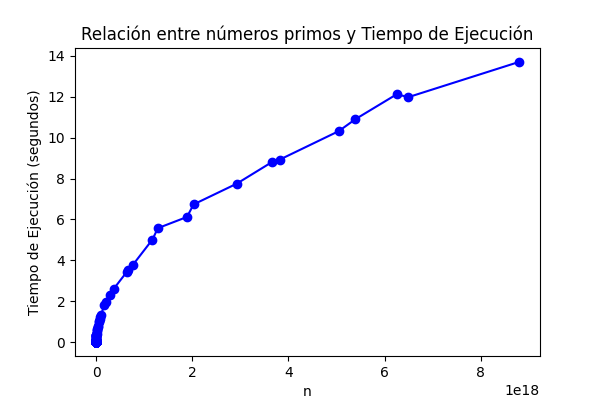
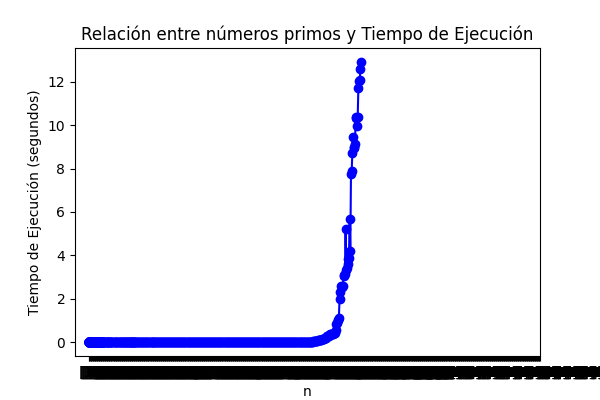
primes graph fixed

diff --git a/src/test.py b/src/test.py
@@ -3,6 +3,7 @@ import random
 from typing import Callable
 
 import matplotlib.pyplot as plt
+import numpy as np
 import pandas as pd
 
 import gcdlib
@@ -119,8 +120,7 @@ def plot_performance(numeros, tiempos, filename: str, title: str, xlabel: str, y
     plt.xlabel(xlabel)
     plt.ylabel(ylabel)
 
-    plt.xticks(range(int(min(numeros)), int(max(numeros))+1))
-    plt.yticks(range(int(min(tiempos)), int(max(tiempos))+1))
+    plt.xticks(range(len(numeros)), [str(n) for n in numeros])
 
     # Mostrar el gráfico
     plt.savefig(f'{IMAGES_OUTPUT_FOLDER}/{filename}.png')
@@ -141,31 +141,31 @@ if __name__ == "__main__":
     # funct_df.to_csv(f'{CSV_OUTPUT_FOLDER}/output_primes_fucnt_test.csv')
 
 
-    # results_df = pd.read_csv(f'{CSV_OUTPUT_FOLDER}/output_primes.csv')
+    results_df = pd.read_csv(f'{CSV_OUTPUT_FOLDER}/output_primes.csv')
 
-    # avg = results_df.groupby('order')['time'].mean()  # average per order
+    avg = results_df.groupby('order')['time'].mean()  # average per order
 
-    # plot_performance(
-    #     avg.index,
-    #     avg.values,
-    #     filename='scatter_plot_primes',
-    #     title='Relación entre Longitud del Número y Tiempo de Ejecución',
-    #     xlabel='Longitud del Número',
-    #     ylabel='Tiempo de Ejecución (segundos)'
-    # )
+    plot_performance(
+        avg.index,
+        avg.values,
+        filename='scatter_plot_primes',
+        title='Relación entre Longitud del Número y Tiempo de Ejecución',
+        xlabel='Longitud del Número',
+        ylabel='Tiempo de Ejecución (segundos)'
+    )
 
-    # primes = results_df.loc[results_df['result'] == True]  # only true values
-    # plot_performance(
-    #     primes['n'],
-    #     primes['time'],
-    #     filename='scatter_plot_primes_only_primes',
-    #     title='Relación entre números primos y Tiempo de Ejecución',
-    #     xlabel='n',
-    #     ylabel='Tiempo de Ejecución (segundos)'
-    # )
+    primes = results_df.loc[results_df['result'] == True]  # only true values
+    plot_performance(
+        primes['n'],
+        primes['time'],
+        filename='scatter_plot_primes_only_primes',
+        title='Relación entre números primos y Tiempo de Ejecución',
+        xlabel='n',
+        ylabel='Tiempo de Ejecución (segundos)'
+    )
 
 
-    # GCD
+    #GCD
 
     
     results_df = perf_tests(gcdlib.gcd_factorize, 10e8, nargs=2, iterations=50).sort_values(by='a', ignore_index=True)
